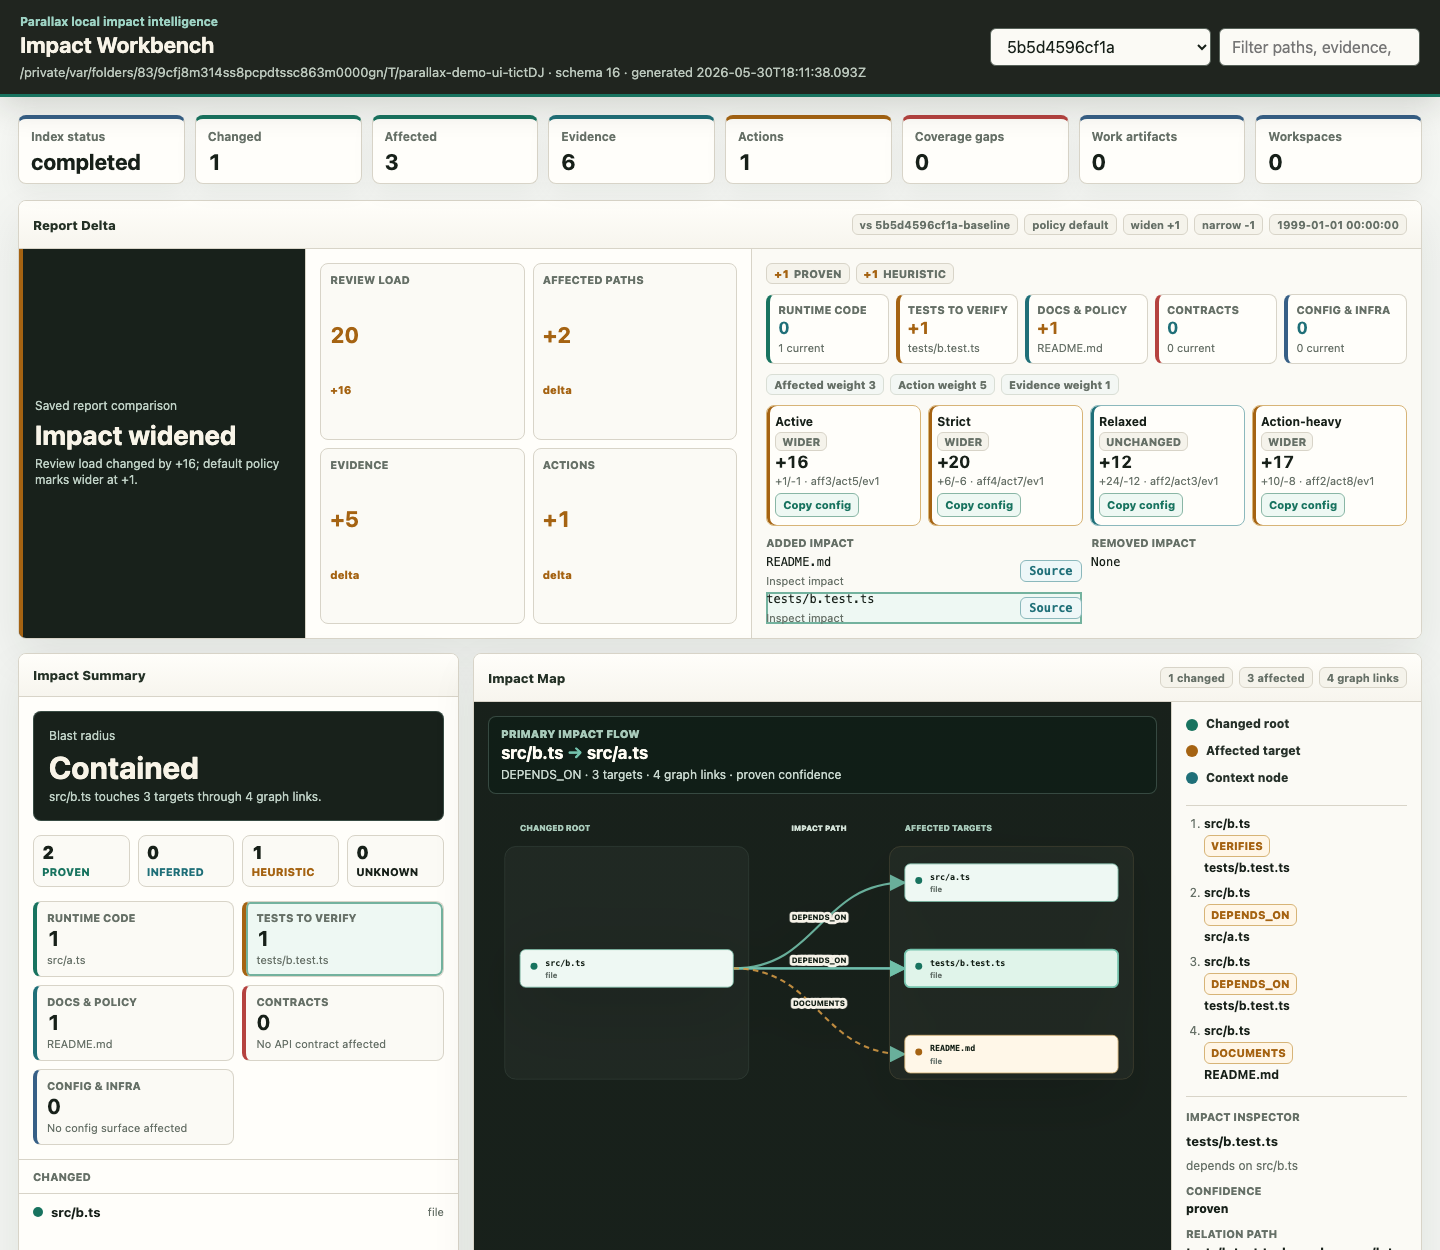
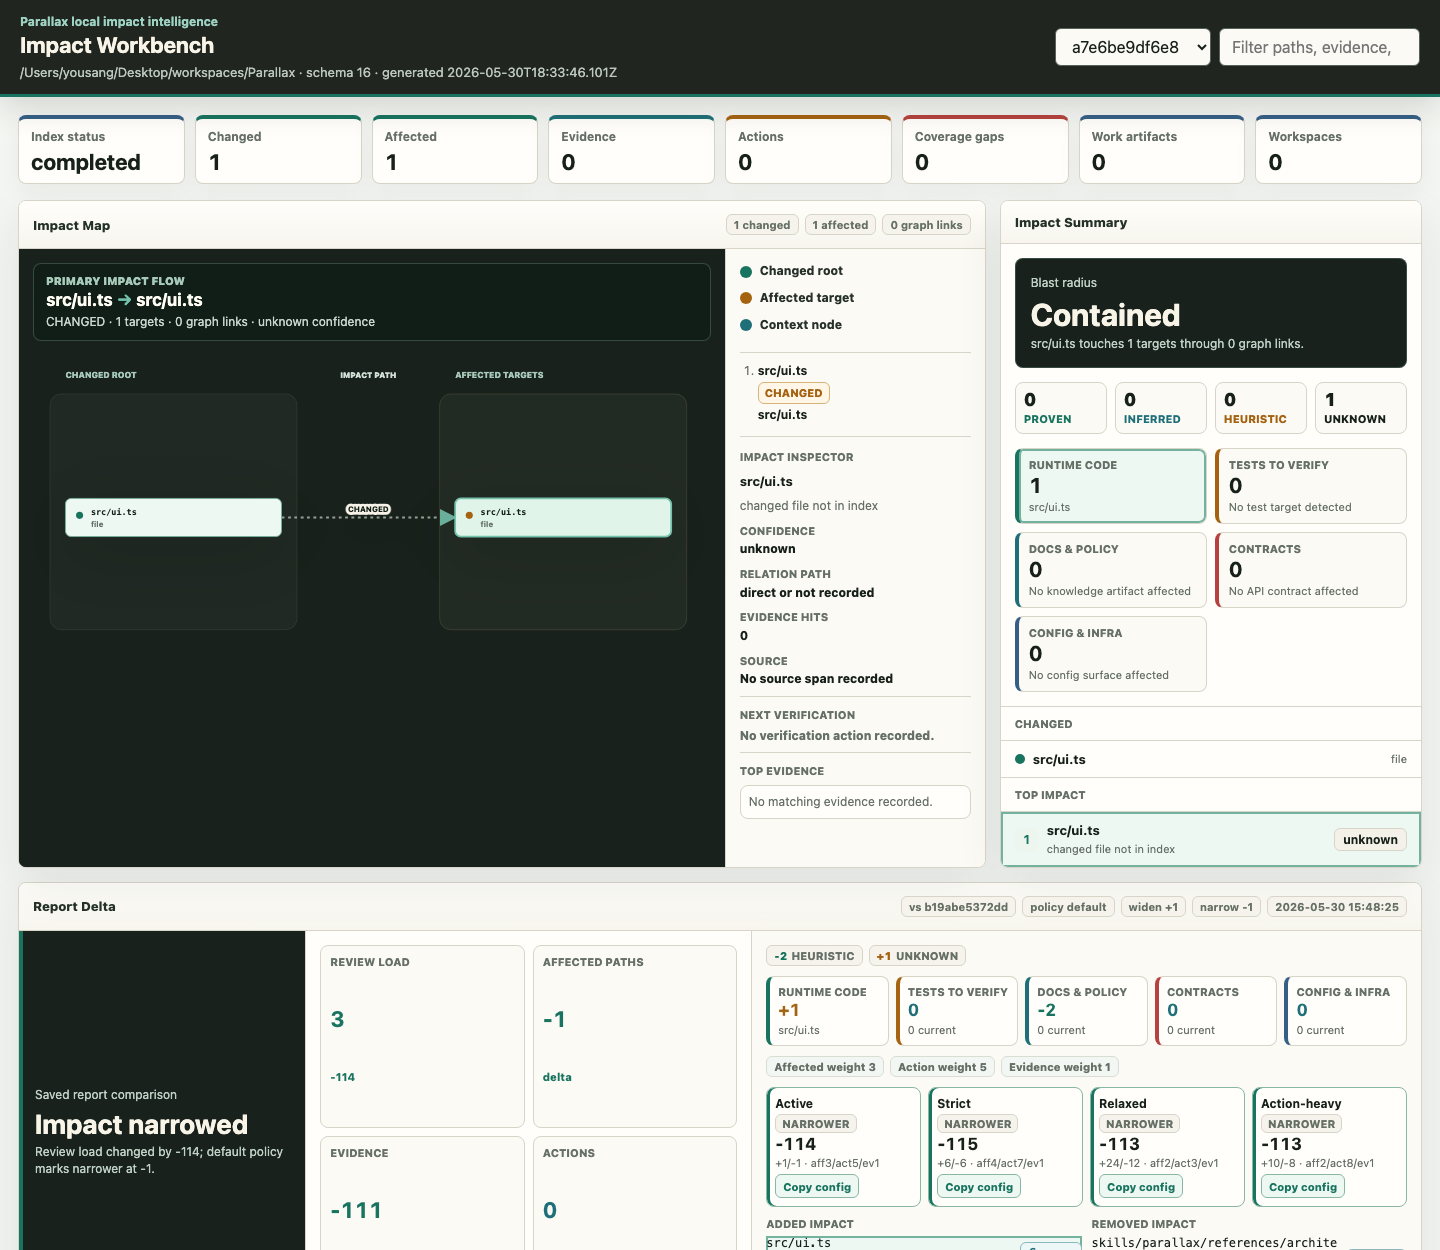
feat(ui): prioritize graph-first impact view

diff --git a/src/ui.ts b/src/ui.ts
@@ -1657,7 +1657,7 @@ export function renderUiHtml(snapshot: UiSnapshot): string {
       font-variant-numeric: tabular-nums;
     }
     .report-delta-panel {
-      margin-bottom: 14px;
+      margin: 0 0 14px;
     }
     .delta-content {
       display: grid;
@@ -1905,7 +1905,7 @@ export function renderUiHtml(snapshot: UiSnapshot): string {
     .delta-neutral strong, .delta-neutral b, .delta-neutral em { color: var(--teal); }
     .impact-overview {
       display: grid;
-      grid-template-columns: minmax(320px, 0.72fr) minmax(620px, 1.55fr);
+      grid-template-columns: minmax(680px, 1.65fr) minmax(320px, 0.72fr);
       gap: 14px;
       align-items: stretch;
       margin-bottom: 14px;
@@ -2309,9 +2309,9 @@ export function renderUiHtml(snapshot: UiSnapshot): string {
     }
     .map-content {
       display: grid;
-      grid-template-columns: minmax(0, 1fr) 250px;
+      grid-template-columns: minmax(0, 1fr) minmax(260px, 0.34fr);
       height: 100%;
-      min-height: 520px;
+      min-height: 560px;
       align-items: stretch;
     }
     .map-frame {
@@ -2363,7 +2363,7 @@ export function renderUiHtml(snapshot: UiSnapshot): string {
     .impact-svg {
       display: block;
       width: 100%;
-      height: 430px;
+      height: 470px;
       filter: drop-shadow(0 16px 30px rgba(0, 0, 0, 0.18));
     }
     .map-stage {
@@ -2643,11 +2643,19 @@ export function renderUiHtml(snapshot: UiSnapshot): string {
       .impact-overview, .workbench, .bottom, .map-content, .summary-columns { grid-template-columns: 1fr; }
       .summary-columns > div:first-child, .map-legend { border-right: 0; border-left: 0; }
       .map-content { height: auto; }
-      .impact-svg { height: 360px; }
+      .impact-svg { height: 380px; }
     }
     @media (max-width: 560px) {
       .shell { padding: 10px; }
-      .metrics { grid-template-columns: 1fr; }
+      .metrics {
+        grid-template-columns: repeat(2, minmax(0, 1fr));
+        gap: 8px;
+      }
+      .metric {
+        min-height: 58px;
+        padding: 8px 10px;
+      }
+      .metric strong { font-size: 20px; }
       .impact-row, .workspace-link-row, .action-row { grid-template-columns: 1fr; }
       .action-controls { grid-column: auto; justify-content: flex-start; }
       .impact-path-meta { justify-content: flex-start; max-width: none; }
@@ -2680,11 +2688,11 @@ export function renderUiHtml(snapshot: UiSnapshot): string {
       <div class="metric"><span>Work artifacts</span><strong>${escapeHtml(String(snapshot.workArtifacts.length))}</strong></div>
       <div class="metric"><span>Workspaces</span><strong>${escapeHtml(String(snapshot.workspaces.length))}</strong></div>
     </section>
-    ${reportDeltaPanel}
     <section class="impact-overview" aria-label="Impact overview">
-      ${impactSummaryPanel}
       ${impactMapPanel}
+      ${impactSummaryPanel}
     </section>
+    ${reportDeltaPanel}
     <section class="workbench" aria-label="Impact report workbench">
       <div class="stacked-pane">
         <section class="panel">

diff --git a/tests/ui.test.ts b/tests/ui.test.ts
@@ -221,6 +221,7 @@ test('UI snapshot and HTML render a list-first report workbench', async () => {
     assert.match(html, /Evidence/);
     assert.match(html, /Impact Summary/);
     assert.match(html, /aria-label="Affected targets by product lane"/);
+    assert.match(html, /@media \(max-width: 560px\)[\s\S]*\.metrics \{\s*grid-template-columns: repeat\(2, minmax\(0, 1fr\)\);/);
     assert.match(html, /impact-lane-green[\s\S]*Runtime code[\s\S]*<b>1<\/b>[\s\S]*src\/a\.ts/);
     assert.match(html, /impact-lane-amber[\s\S]*Tests to verify[\s\S]*<b>1<\/b>[\s\S]*tests\/b\.test\.ts/);
     assert.match(html, /impact-lane-teal[\s\S]*Docs &amp; policy[\s\S]*<b>1<\/b>[\s\S]*README\.md/);
@@ -230,6 +231,7 @@ test('UI snapshot and HTML render a list-first report workbench', async () => {
     assert.match(html, /marker-end="url\(#impactArrow\)"/);
     assert.match(html, /class="impact-svg"/);
     assert.match(html, /Impact Inspector/);
+    assert.ok(html.indexOf('Impact Map') < html.indexOf('Impact Summary'));
     assert.match(html, /Next verification/);
     assert.match(html, /id="inspectorAction"[\s\S]*No verification action recorded/);
     assert.match(html, /Top evidence/);
@@ -288,6 +290,7 @@ test('UI snapshot and HTML compare the selected report to the previous saved rep
 
     const html = renderUiHtml(snapshot);
     assert.match(html, /Report Delta/);
+    assert.ok(html.indexOf('aria-label="Impact overview"') < html.indexOf('class="panel report-delta-panel"'));
     assert.match(html, /Impact widened/);
     assert.match(html, /Saved report comparison/);
     assert.match(html, /policy default/);

diff --git a/README.md b/README.md
@@ -15,7 +15,7 @@ Claude Code, Codex, Cursor 같은 에이전트가 코드를 고치기 전에<br/
 
 [🚀 빠른 시작](#-빠른-시작) · [✨ 주요 기능](#-주요-기능) · [🧱 핵심 개념](#-핵심-개념) · [🤖 MCP](#-mcp--agents) · [🔒 안전 모델](#-안전-모델) · [🗺️ Roadmap](#%EF%B8%8F-roadmap) · [📚 더 읽기](#-더-읽기)
 
-<img src="docs/assets/parallax-ui-demo.png" alt="Parallax Impact Workbench UI showing report delta, impact summary, visual impact map, verification queue, affected paths, and evidence" width="100%">
+<img src="docs/assets/parallax-ui-demo.png" alt="Parallax Impact Workbench UI showing a graph-first impact map, impact summary, report delta, verification queue, affected paths, and evidence" width="100%">
 
 </div>
 
@@ -143,18 +143,18 @@ parallax profile --entity file:src/auth.ts
 
 ### 🖥️ Local UI
 
-`parallax ui`는 최신 report를 기준으로 바로 작업 화면을 띄운다. landing page가 아니라 Report Delta, Impact Summary, Impact Map, Change Set, Impact Paths, Evidence, Coverage Gaps, Doctor Findings를 한 화면에서 본다.
+`parallax ui`는 최신 report를 기준으로 바로 작업 화면을 띄운다. landing page가 아니라 Impact Map, Impact Summary, Report Delta, Change Set, Impact Paths, Evidence, Coverage Gaps, Doctor Findings를 한 화면에서 본다.
 
 | 화면 | 기능 |
 | :--- | :--- |
-| **Change Set** | 분석된 변경 파일과 entity 요약 |
-| **Report Delta** | 선택한 report를 직전 saved report와 비교해 영향 범위, evidence, action, lane 변화량과 policy preset별 판정을 표시하고 added path를 source/inspector로 연결 |
+| **Impact Map** | changed root에서 affected target까지 primary flow, 방향 화살표, 실제 graph link를 첫 화면 우선순위로 보여주고 target 선택 시 관련 경로와 evidence를 강조 |
 | **Impact Summary** | 변경 수, 영향 범위, confidence 분포, 우선 확인 대상을 첫 화면에 요약 |
 | **Impact Lanes** | runtime code, tests, docs/policy, contracts, config/infra 영향 범주를 한눈에 분리 |
+| **Report Delta** | 선택한 report를 직전 saved report와 비교해 영향 범위, evidence, action, lane 변화량과 policy preset별 판정을 표시하고 added path를 source/inspector로 연결 |
+| **Change Set** | 분석된 변경 파일과 entity 요약 |
 | **Impact Paths** | 변경 → 영향 대상까지의 relation trail, evidence count, source/action control |
 | **Verification Queue** | 영향받는 테스트/리뷰 action을 복사 가능한 command와 target source link로 표시 |
 | **Evidence** | redacted snippet, source span, relation provenance |
-| **Impact Map** | changed root에서 affected target까지 primary flow, 방향 화살표, 실제 graph link를 보여주고 target 선택 시 관련 경로와 evidence를 강조 |
 | **Impact Inspector** | 선택한 target의 relation, evidence preview, source, verification action을 즉시 확인 |
 | **Source Viewer** | evidence의 `Open source` 링크로 repo-local 파일의 해당 line 주변을 바로 확인 |
 | **Coverage Gaps** | adapter confidence와 known-gap 확인 |

diff --git a/docs/roadmap.md b/docs/roadmap.md
@@ -55,6 +55,7 @@ MCP는 read-only로 안정화됐다. 다음은 agent 사용성을 깊게 보는 
 - [x] report delta policy preset을 UI에서 비교할 수 있게 만들기
 - [x] impact map에 primary flow summary, 방향 화살표, stage band를 추가해 first glance 강화
 - [x] report delta preset에서 선택한 policy를 config patch로 내보내기
+- [x] impact map을 첫 viewport의 primary surface로 올려 변경 → 영향 흐름을 바로 보이게 만들기
 
 ## 6. 회고와 측정
 